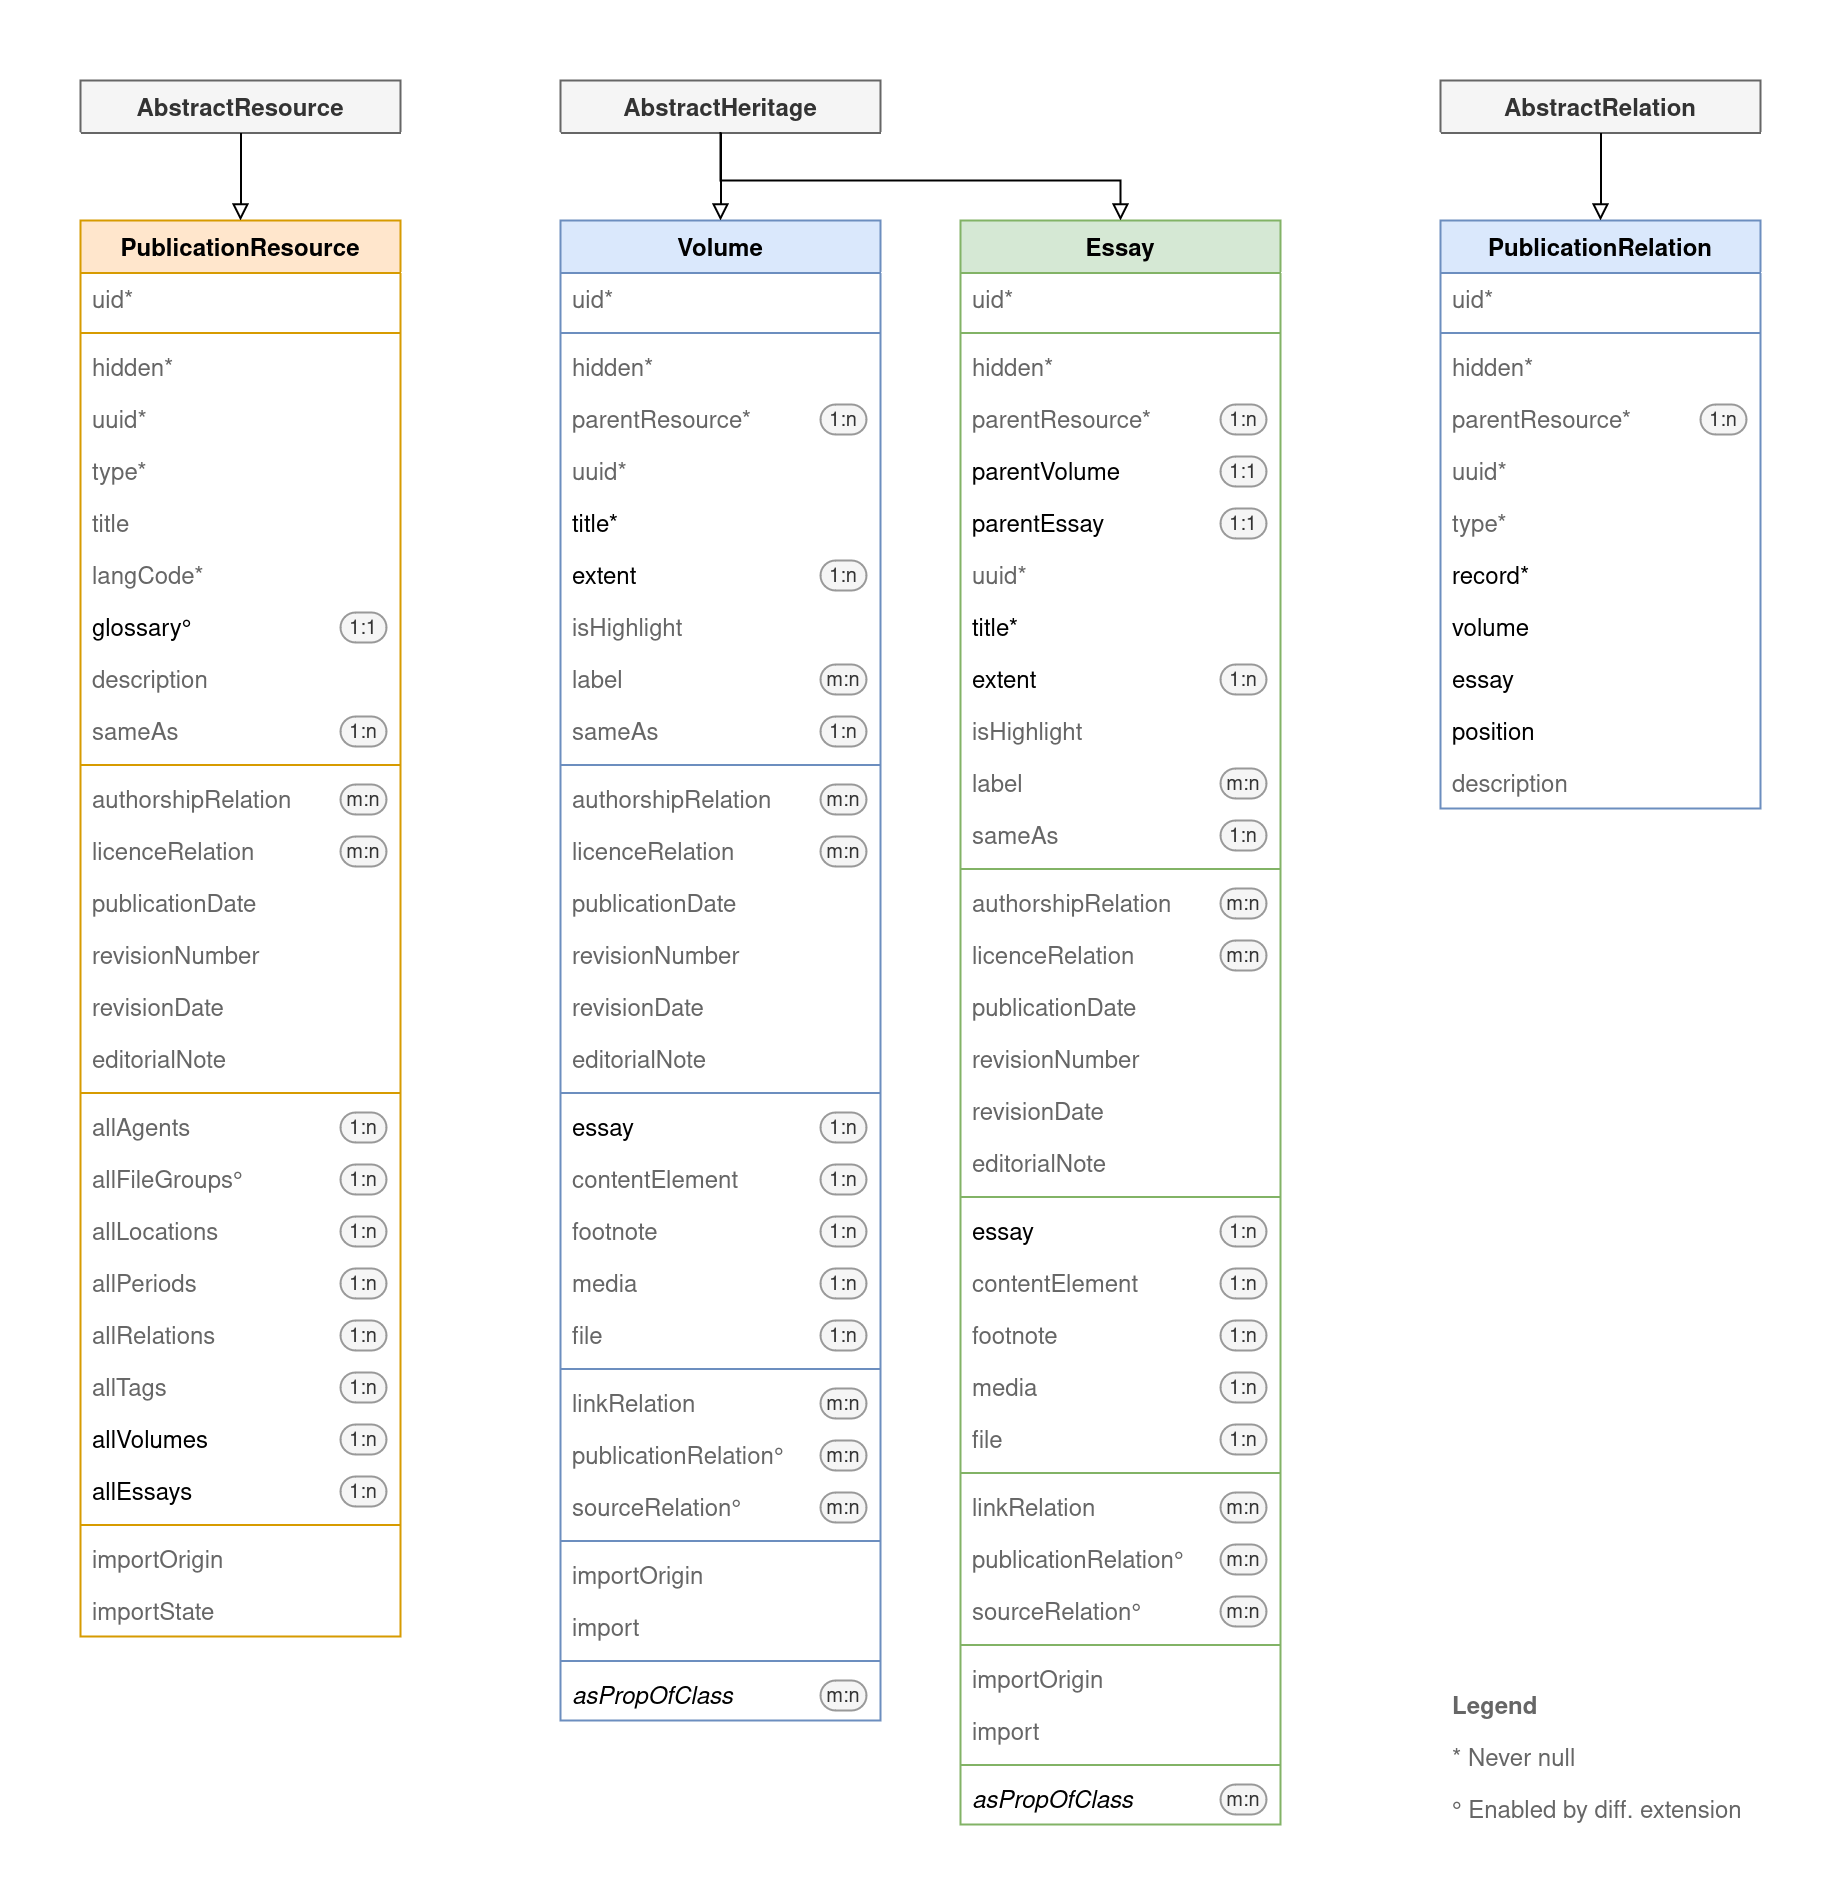
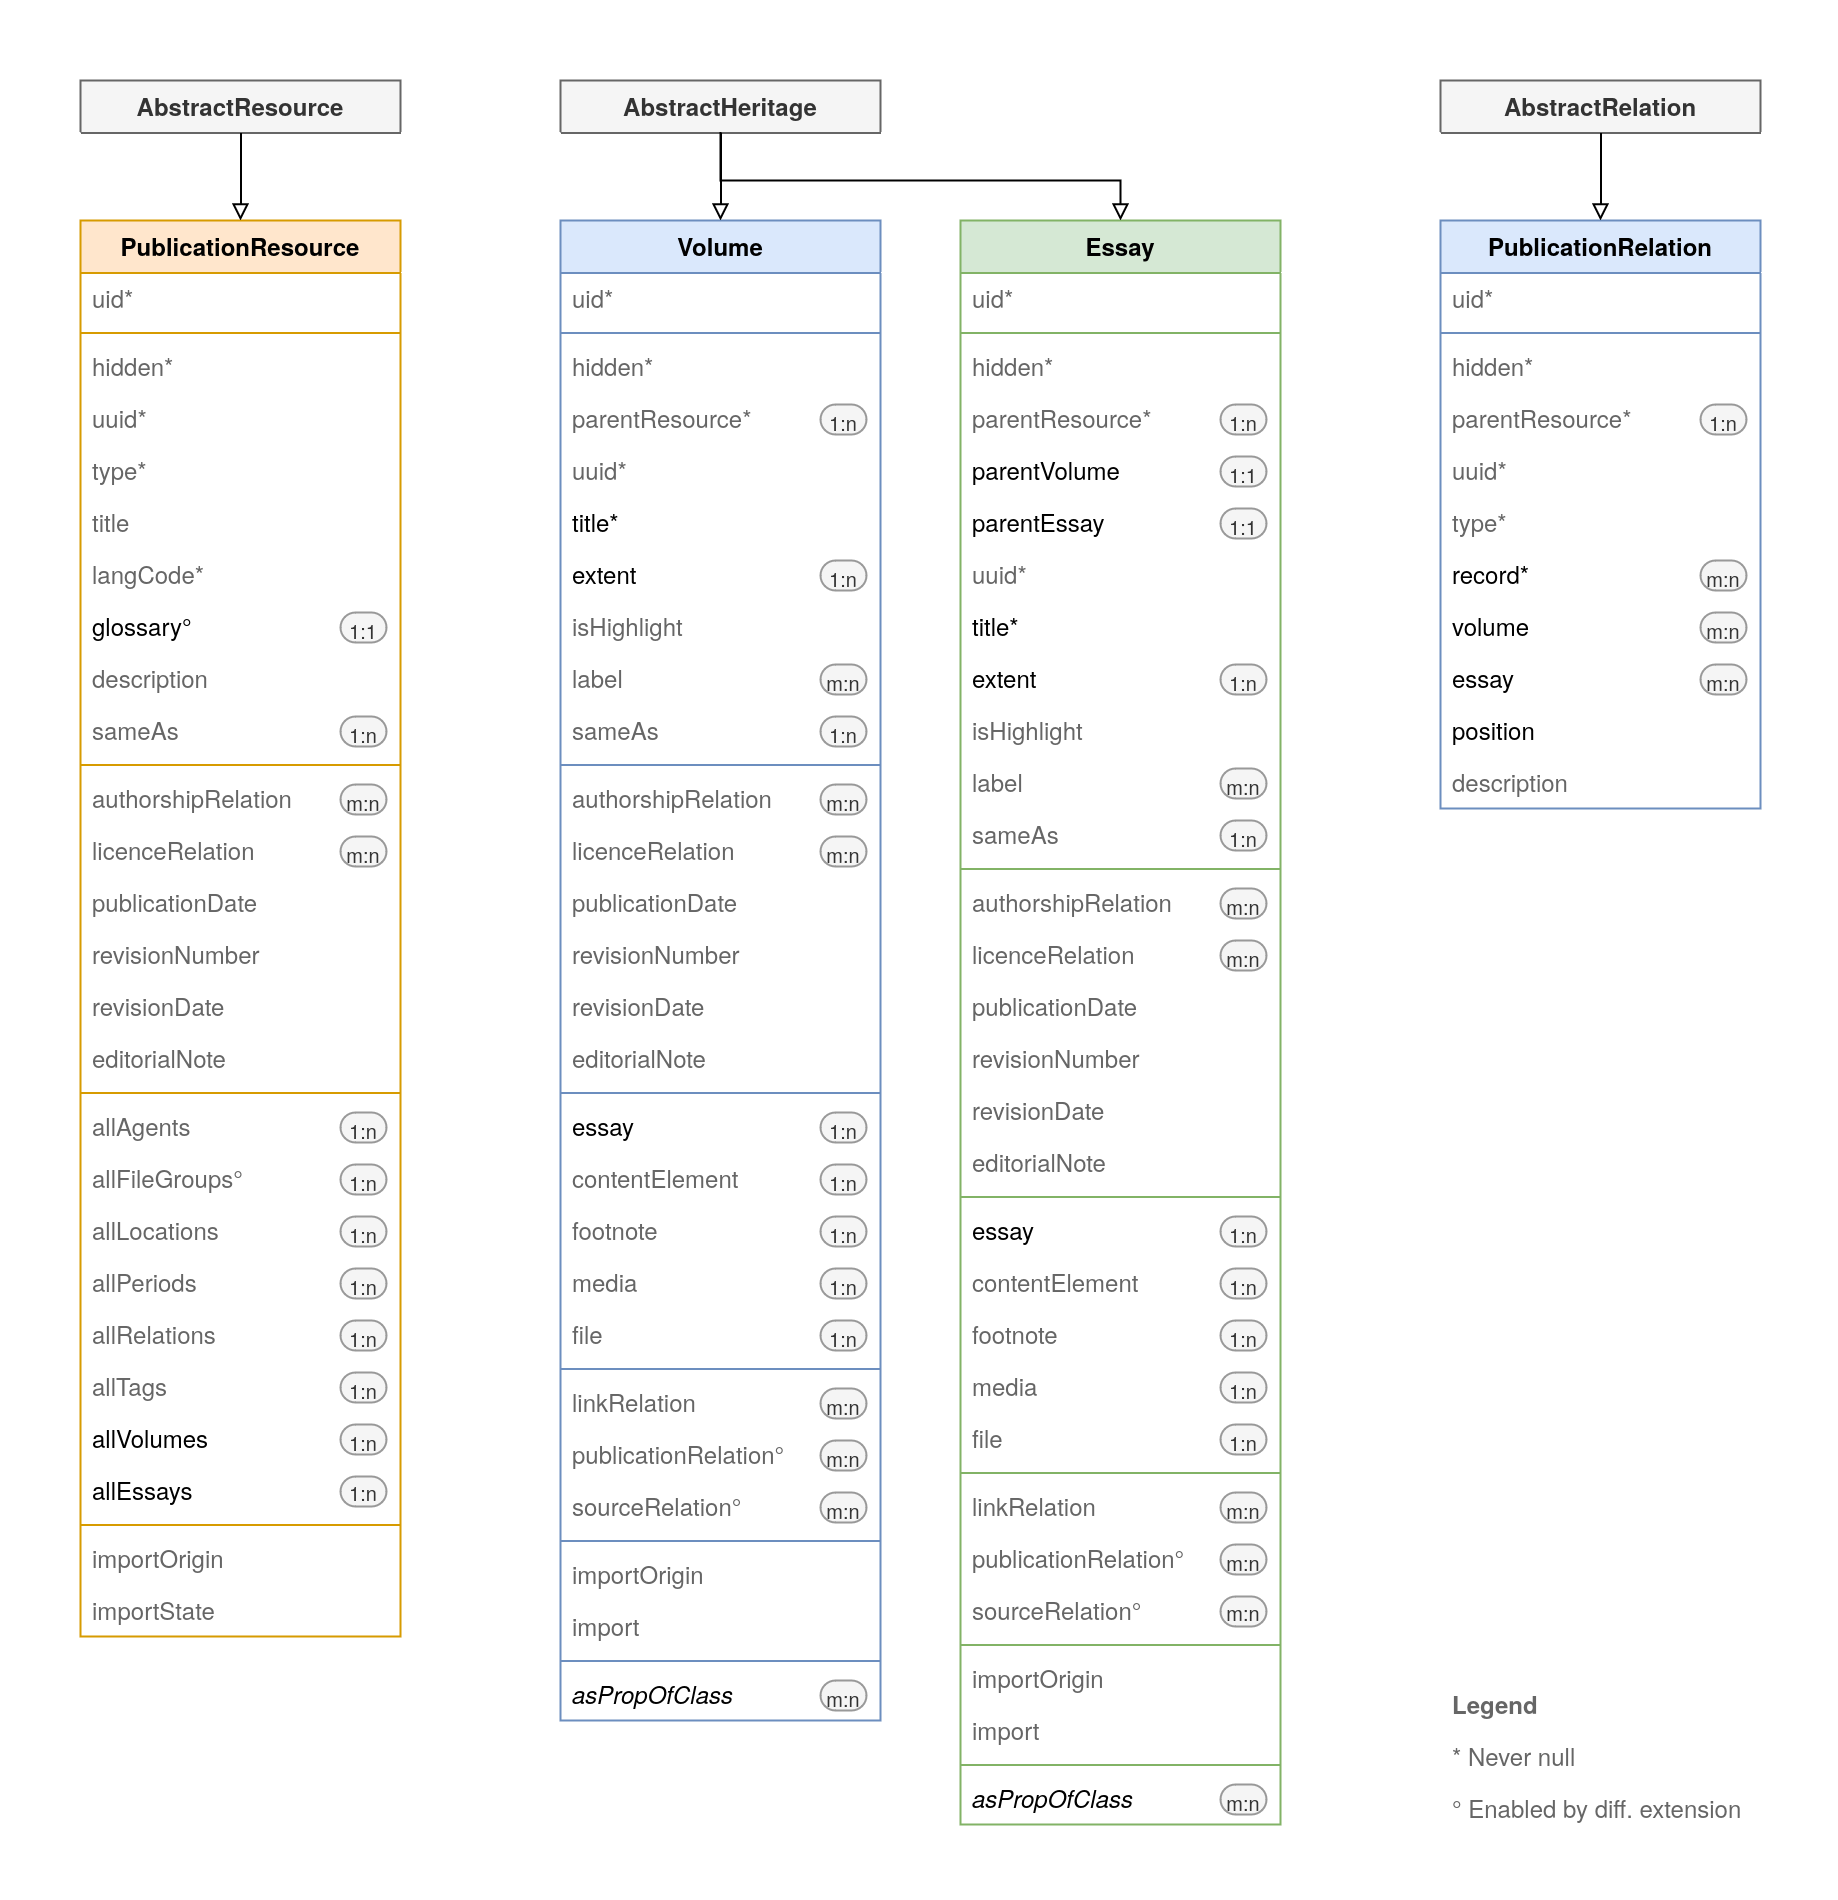
Add variant of AbstractRelation

diff --git a/Classes/Domain/Model/PublicationRelation.php b/Classes/Domain/Model/PublicationRelation.php
@@ -1,0 +1,254 @@
+<?php
+declare(strict_types=1);
+
+# This file is part of the extension CHF Pub for TYPO3.
+#
+# For the full copyright and license information, please read the
+# LICENSE.txt file that was distributed with this source code.
+
+
+namespace Digicademy\CHFPub\Domain\Model;
+
+use TYPO3\CMS\Extbase\Annotation\ORM\Lazy;
+use TYPO3\CMS\Extbase\Annotation\Validate;
+use TYPO3\CMS\Extbase\Persistence\ObjectStorage;
+use Digicademy\CHFBase\Domain\Model\AbstractRelation;
+
+defined('TYPO3') or die();
+
+/**
+ * Model for PublicationRelation
+ */
+class PublicationRelation extends AbstractRelation
+{
+    /**
+     * Record to connect a relation to
+     * 
+     * @var ?ObjectStorage<object>
+     */
+    #[Lazy()]
+    protected ?ObjectStorage $record;
+
+    /**
+     * Volume to relate to the record
+     * 
+     * @var ?ObjectStorage<Volume>
+     */
+    #[Lazy()]
+    protected ?ObjectStorage $volume;
+
+    /**
+     * Essay to relate to the record
+     * 
+     * @var ?ObjectStorage<Essay>
+     */
+    #[Lazy()]
+    protected ?ObjectStorage $essay;
+
+    /**
+     * Page number or other location in the volume or essay to relate to
+     * 
+     * @var string
+     */
+    #[Validate([
+        'validator' => 'StringLength',
+        'options' => [
+            'maximum' => 255,
+        ],
+    ])]
+    protected string $position = '';
+
+    /**
+     * Construct object
+     *
+     * @param object $parentResource
+     * @param string $uuid
+     * @param object $record
+     * @return PublicationRelation
+     */
+    public function __construct(object $parentResource, string $uuid, object $record)
+    {
+        parent::__construct($parentResource, $uuid);
+        $this->initializeObject();
+
+        $this->setType('publicationRelation');
+        $this->addRecord($record);
+    }
+
+    /**
+     * Initialize object
+     */
+    public function initializeObject(): void
+    {
+        $this->record ??= new ObjectStorage();
+        $this->volume ??= new ObjectStorage();
+        $this->essay ??= new ObjectStorage();
+    }
+
+    /**
+     * Get record
+     *
+     * @return ObjectStorage<object>
+     */
+    public function getRecord(): ?ObjectStorage
+    {
+        return $this->record;
+    }
+
+    /**
+     * Set record
+     *
+     * @param ObjectStorage<object> $record
+     */
+    public function setRecord(ObjectStorage $record): void
+    {
+        $this->record = $record;
+    }
+
+    /**
+     * Add record
+     *
+     * @param object $record
+     */
+    public function addRecord(object $record): void
+    {
+        $this->record?->attach($record);
+    }
+
+    /**
+     * Remove record
+     *
+     * @param object $record
+     */
+    public function removeRecord(object $record): void
+    {
+        $this->record?->detach($record);
+    }
+
+    /**
+     * Remove all records
+     */
+    public function removeAllRecord(): void
+    {
+        $record = clone $this->record;
+        $this->record->removeAll($record);
+    }
+
+    /**
+     * Get volume
+     *
+     * @return ObjectStorage<Volume>
+     */
+    public function getVolume(): ?ObjectStorage
+    {
+        return $this->volume;
+    }
+
+    /**
+     * Set volume
+     *
+     * @param ObjectStorage<Volume> $volume
+     */
+    public function setVolume(ObjectStorage $volume): void
+    {
+        $this->volume = $volume;
+    }
+
+    /**
+     * Add volume
+     *
+     * @param Volume $volume
+     */
+    public function addVolume(Volume $volume): void
+    {
+        $this->volume?->attach($volume);
+    }
+
+    /**
+     * Remove volume
+     *
+     * @param Volume $volume
+     */
+    public function removeVolume(Volume $volume): void
+    {
+        $this->volume?->detach($volume);
+    }
+
+    /**
+     * Remove all volumes
+     */
+    public function removeAllVolume(): void
+    {
+        $volume = clone $this->volume;
+        $this->volume->removeAll($volume);
+    }
+
+    /**
+     * Get essay
+     *
+     * @return ObjectStorage<Essay>
+     */
+    public function getEssay(): ?ObjectStorage
+    {
+        return $this->essay;
+    }
+
+    /**
+     * Set essay
+     *
+     * @param ObjectStorage<Essay> $essay
+     */
+    public function setEssay(ObjectStorage $essay): void
+    {
+        $this->essay = $essay;
+    }
+
+    /**
+     * Add essay
+     *
+     * @param Essay $essay
+     */
+    public function addEssay(Essay $essay): void
+    {
+        $this->essay?->attach($essay);
+    }
+
+    /**
+     * Remove essay
+     *
+     * @param Essay $essay
+     */
+    public function removeEssay(Essay $essay): void
+    {
+        $this->essay?->detach($essay);
+    }
+
+    /**
+     * Remove all essays
+     */
+    public function removeAllEssay(): void
+    {
+        $essay = clone $this->essay;
+        $this->essay->removeAll($essay);
+    }
+
+    /**
+     * Get position
+     *
+     * @return string
+     */
+    public function getPosition(): string
+    {
+        return $this->position;
+    }
+
+    /**
+     * Set position
+     *
+     * @param string $position
+     */
+    public function setPosition(string $position): void
+    {
+        $this->position = $position;
+    }
+}
